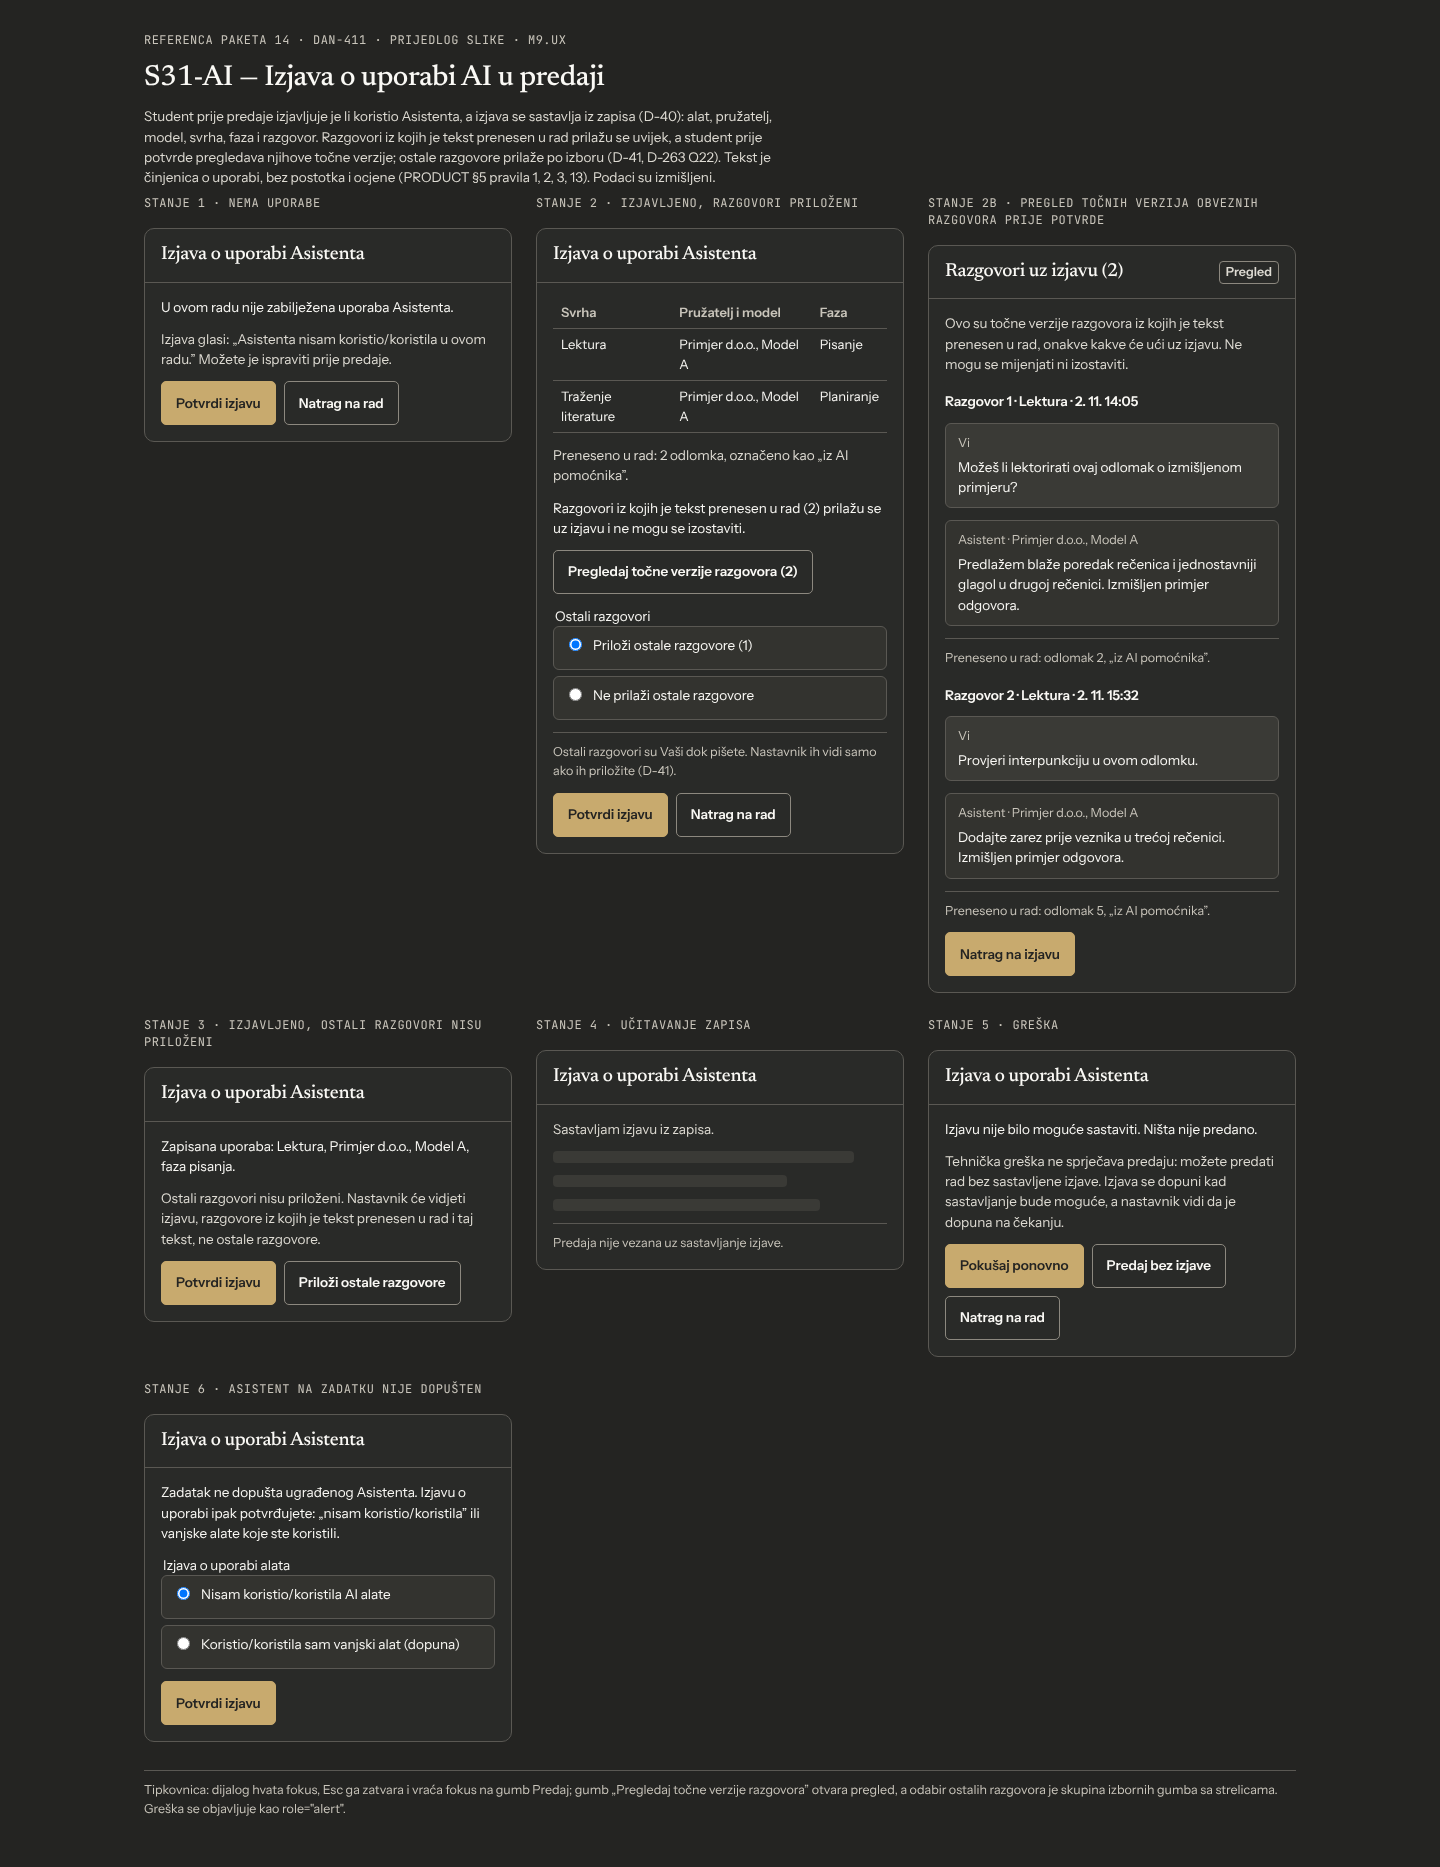
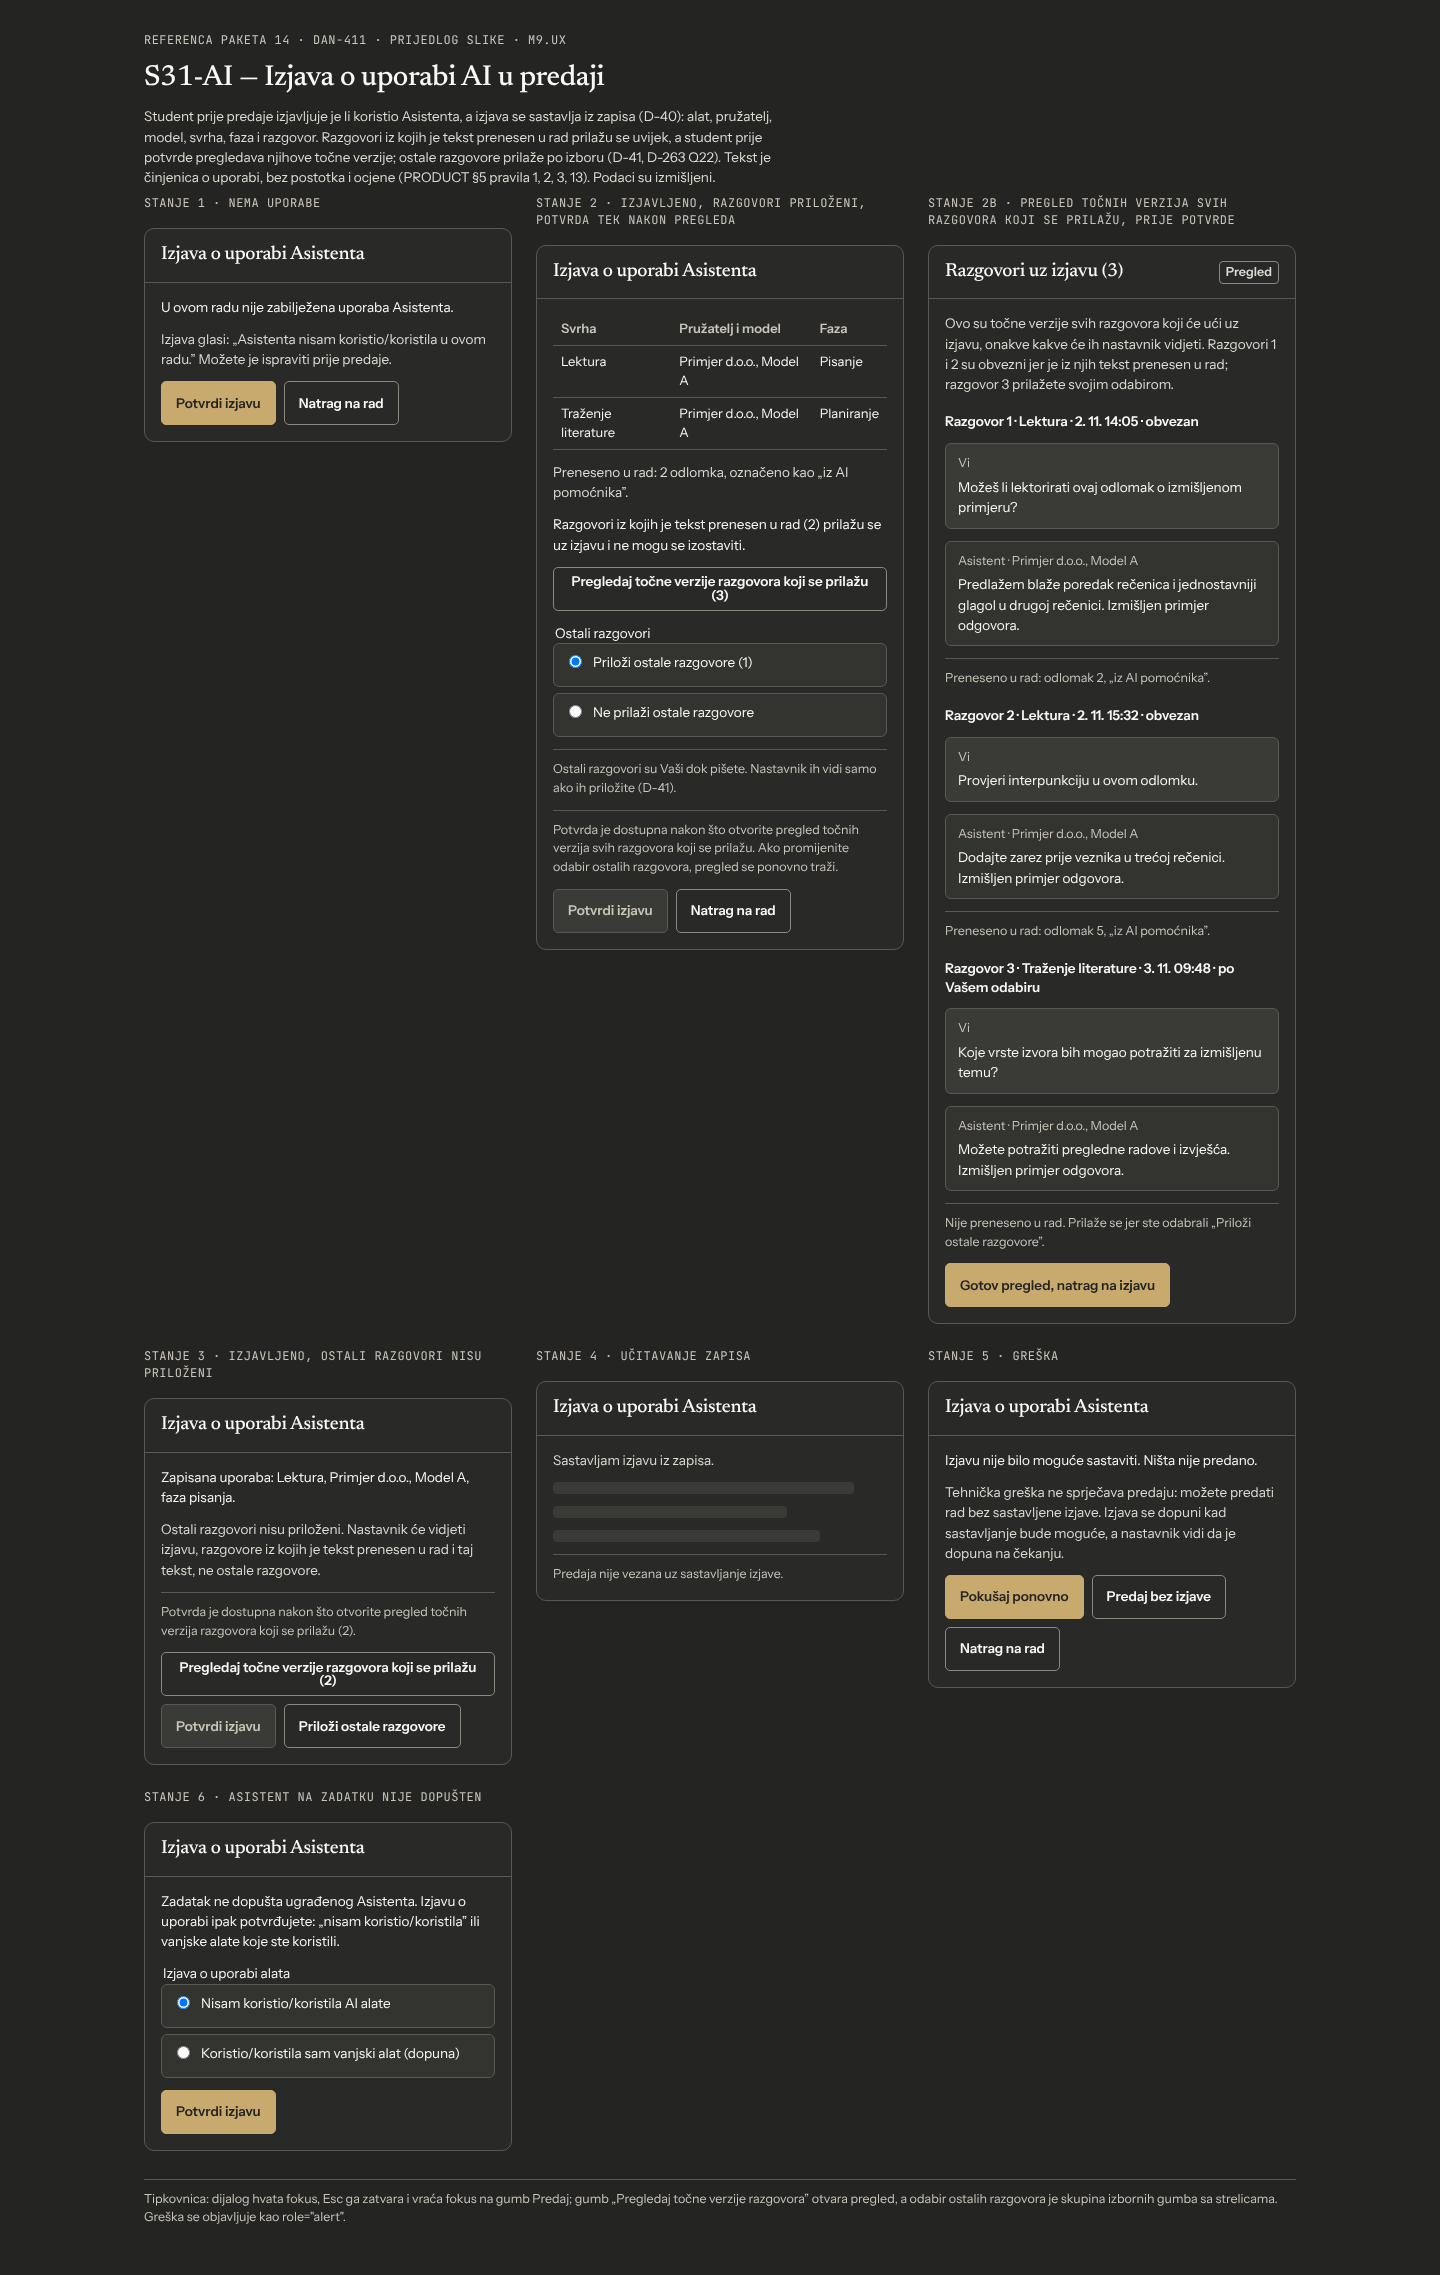
docs: S-31 review of exact versions covers all attached conversations and gates confirmation
Claude-Session: https://claude.ai/code/session_01N1HowT8egL4JZR2XTBXRV4

diff --git a/docs/design/ductura/m9-reference-b/s31-ai.html b/docs/design/ductura/m9-reference-b/s31-ai.html
@@ -27,7 +27,7 @@
   </section>
 
   <section class="variant" aria-labelledby="v2">
-    <div class="ref-tag" id="v2">Stanje 2 · izjavljeno, razgovori priloženi</div>
+    <div class="ref-tag" id="v2">Stanje 2 · izjavljeno, razgovori priloženi, potvrda tek nakon pregleda</div>
     <div class="panel" role="dialog" aria-labelledby="t2">
       <div class="panel-top"><h2 id="t2">Izjava o uporabi Asistenta</h2></div>
       <div class="panel-body">
@@ -36,32 +36,37 @@
           <tr><td>Traženje literature</td><td>Primjer d.o.o., Model A</td><td>Planiranje</td></tr></tbody></table>
         <p class="note">Preneseno u rad: 2 odlomka, označeno kao „iz AI pomoćnika”.</p>
         <p>Razgovori iz kojih je tekst prenesen u rad (2) prilažu se uz izjavu i ne mogu se izostaviti.</p>
-        <div class="acts"><button class="btn secondary" type="button">Pregledaj točne verzije razgovora (2)</button></div>
+        <div class="acts"><button class="btn secondary" type="button">Pregledaj točne verzije razgovora koji se prilažu (3)</button></div>
         <fieldset class="radio"><legend>Ostali razgovori</legend>
           <label><input type="radio" name="r2" checked> Priloži ostale razgovore (1)</label>
           <label><input type="radio" name="r2"> Ne prilaži ostale razgovore</label>
         </fieldset>
         <p class="foot">Ostali razgovori su Vaši dok pišete. Nastavnik ih vidi samo ako ih priložite (D-41).</p>
-        <div class="acts"><button class="btn" type="button">Potvrdi izjavu</button><button class="btn secondary" type="button">Natrag na rad</button></div>
+        <p class="foot" id="pr2">Potvrda je dostupna nakon što otvorite pregled točnih verzija svih razgovora koji se prilažu. Ako promijenite odabir ostalih razgovora, pregled se ponovno traži.</p>
+        <div class="acts"><button class="btn" type="button" aria-disabled="true" aria-describedby="pr2">Potvrdi izjavu</button><button class="btn secondary" type="button">Natrag na rad</button></div>
       </div>
     </div>
   </section>
 
   <section class="variant" aria-labelledby="v2b">
-    <div class="ref-tag" id="v2b">Stanje 2b · pregled točnih verzija obveznih razgovora prije potvrde</div>
+    <div class="ref-tag" id="v2b">Stanje 2b · pregled točnih verzija svih razgovora koji se prilažu, prije potvrde</div>
     <div class="panel" role="dialog" aria-labelledby="t2b">
-      <div class="panel-top"><h2 id="t2b">Razgovori uz izjavu (2)</h2><span class="tag">Pregled</span></div>
+      <div class="panel-top"><h2 id="t2b">Razgovori uz izjavu (3)</h2><span class="tag">Pregled</span></div>
       <div class="panel-body">
-        <p class="note">Ovo su točne verzije razgovora iz kojih je tekst prenesen u rad, onakve kakve će ući uz izjavu. Ne mogu se mijenjati ni izostaviti.</p>
-        <h3>Razgovor 1 · Lektura · 2. 11. 14:05</h3>
+        <p class="note">Ovo su točne verzije svih razgovora koji će ući uz izjavu, onakve kakve će ih nastavnik vidjeti. Razgovori 1 i 2 su obvezni jer je iz njih tekst prenesen u rad; razgovor 3 prilažete svojim odabirom.</p>
+        <h3>Razgovor 1 · Lektura · 2. 11. 14:05 · obvezan</h3>
         <div class="turn you"><span class="who">Vi</span><span>Možeš li lektorirati ovaj odlomak o izmišljenom primjeru?</span></div>
         <div class="turn"><span class="who">Asistent · Primjer d.o.o., Model A</span><span>Predlažem blaže poredak rečenica i jednostavniji glagol u drugoj rečenici. Izmišljen primjer odgovora.</span></div>
         <p class="foot">Preneseno u rad: odlomak 2, „iz AI pomoćnika”.</p>
-        <h3>Razgovor 2 · Lektura · 2. 11. 15:32</h3>
+        <h3>Razgovor 2 · Lektura · 2. 11. 15:32 · obvezan</h3>
         <div class="turn you"><span class="who">Vi</span><span>Provjeri interpunkciju u ovom odlomku.</span></div>
         <div class="turn"><span class="who">Asistent · Primjer d.o.o., Model A</span><span>Dodajte zarez prije veznika u trećoj rečenici. Izmišljen primjer odgovora.</span></div>
         <p class="foot">Preneseno u rad: odlomak 5, „iz AI pomoćnika”.</p>
-        <div class="acts"><button class="btn" type="button">Natrag na izjavu</button></div>
+        <h3>Razgovor 3 · Traženje literature · 3. 11. 09:48 · po Vašem odabiru</h3>
+        <div class="turn you"><span class="who">Vi</span><span>Koje vrste izvora bih mogao potražiti za izmišljenu temu?</span></div>
+        <div class="turn"><span class="who">Asistent · Primjer d.o.o., Model A</span><span>Možete potražiti pregledne radove i izvješća. Izmišljen primjer odgovora.</span></div>
+        <p class="foot">Nije preneseno u rad. Prilaže se jer ste odabrali „Priloži ostale razgovore”.</p>
+        <div class="acts"><button class="btn" type="button">Gotov pregled, natrag na izjavu</button></div>
       </div>
     </div>
   </section>
@@ -73,7 +78,8 @@
       <div class="panel-body">
         <p>Zapisana uporaba: Lektura, Primjer d.o.o., Model A, faza pisanja.</p>
         <p class="note">Ostali razgovori nisu priloženi. Nastavnik će vidjeti izjavu, razgovore iz kojih je tekst prenesen u rad i taj tekst, ne ostale razgovore.</p>
-        <div class="acts"><button class="btn" type="button">Potvrdi izjavu</button><button class="btn secondary" type="button">Priloži ostale razgovore</button></div>
+        <p class="foot" id="pr3">Potvrda je dostupna nakon što otvorite pregled točnih verzija razgovora koji se prilažu (2).</p>
+        <div class="acts"><button class="btn secondary" type="button">Pregledaj točne verzije razgovora koji se prilažu (2)</button><button class="btn" type="button" aria-disabled="true" aria-describedby="pr3">Potvrdi izjavu</button><button class="btn secondary" type="button">Priloži ostale razgovore</button></div>
       </div>
     </div>
   </section>

diff --git a/docs/design/ductura/m9-reference-b/README.md b/docs/design/ductura/m9-reference-b/README.md
@@ -6,7 +6,7 @@ Paket 14 iz `docs/design/EKRANI.md` §4. Smjer je „papir i grafit” (D-188, `
 
 | Stranica | Stanja | Izvori |
 |---|---|---|
-| `s31-ai.html` | nema uporabe, izjavljeno s obveznim razgovorima i putem do pregleda, pregled točnih verzija obveznih razgovora prije potvrde (2b), učitavanje, greška (predaja ostaje moguća), Asistent nije dopušten (izjava ostaje) | D-40, D-41, PRODUCT §5 pravila 1, 2, 3, 13 |
+| `s31-ai.html` | nema uporabe, izjavljeno s obveznim razgovorima i putem do pregleda, pregled točnih verzija svih razgovora koji se prilažu (2b), potvrda dostupna tek nakon pregleda, učitavanje, greška (predaja ostaje moguća), Asistent nije dopušten (izjava ostaje) | D-40, D-41, PRODUCT §5 pravila 1, 2, 3, 13 |
 | `n-ai-att.html` | popunjeno, obvezni razgovor priložen a ostali nisu, nema uporabe, učitavanje, greška, prazno | D-41, D-58, PRODUCT §5 pravila 1, 2, 3, 12, 13 |
 | `a-ai-pol.html` | pregled i uređivanje, pružatelji samo za čitanje, objava nove verzije, neispravan unos, trošak nije podešen, učitavanje i greška | D-267 O5, D-270 O11 |
 
